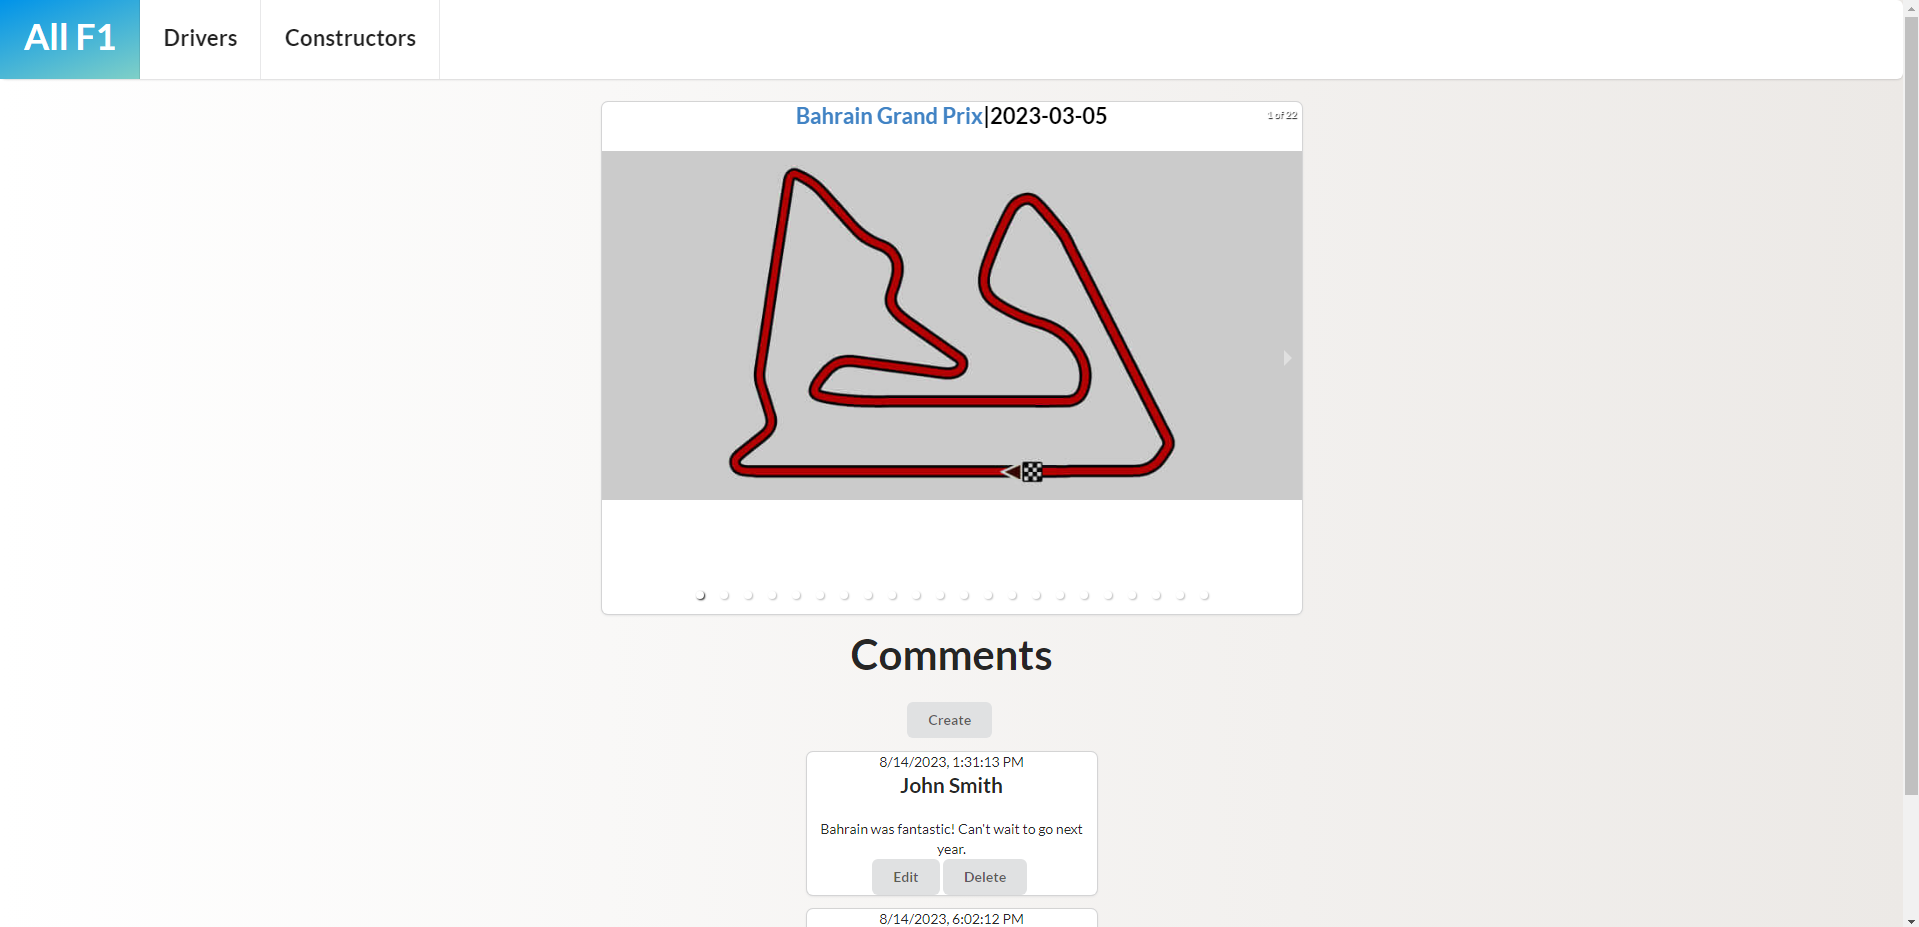
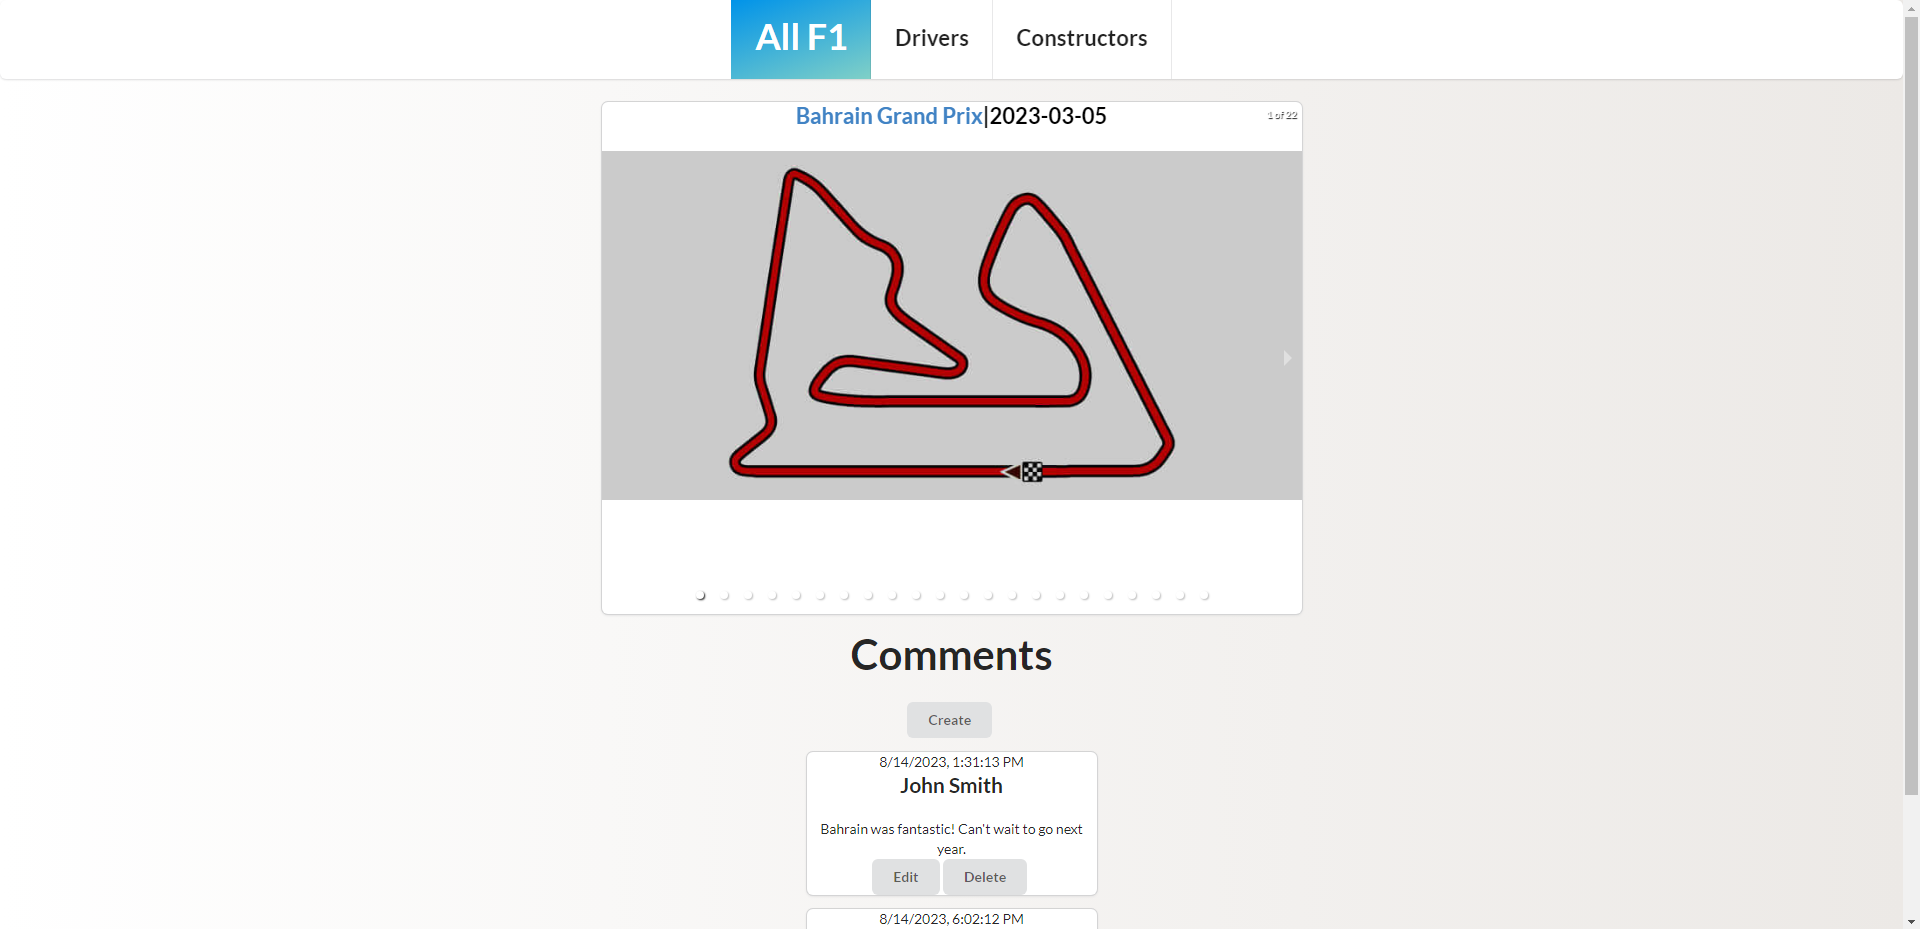
styling

diff --git a/frontend/src/components/SemanticUI/Stackable/index.jsx b/frontend/src/components/SemanticUI/Stackable/index.jsx
@@ -11,7 +11,7 @@ export default class Stackable extends Component {
         const { activeItem } = this.state
 
         return (
-            <Menu className='navBar' stackable >
+            <Menu className='navBar' stackable>
                 <Menu.Item
                     name='home'
                     active={activeItem === 'home'}

diff --git a/frontend/src/index.css b/frontend/src/index.css
@@ -35,6 +35,12 @@ nav {
   z-index: 1000;
 }
 
+.navBar {
+  font-size: large;
+  display: flex;
+  justify-content: center;
+}
+
 @media (max-width: 767px) {
   main {
     margin-top: 130px;
@@ -63,10 +69,6 @@ h2, li, p {
 
 h2 {
   font-size: 22px;
-}
-
-.navBar {
-  font-size: large;
 }
 
 div {
